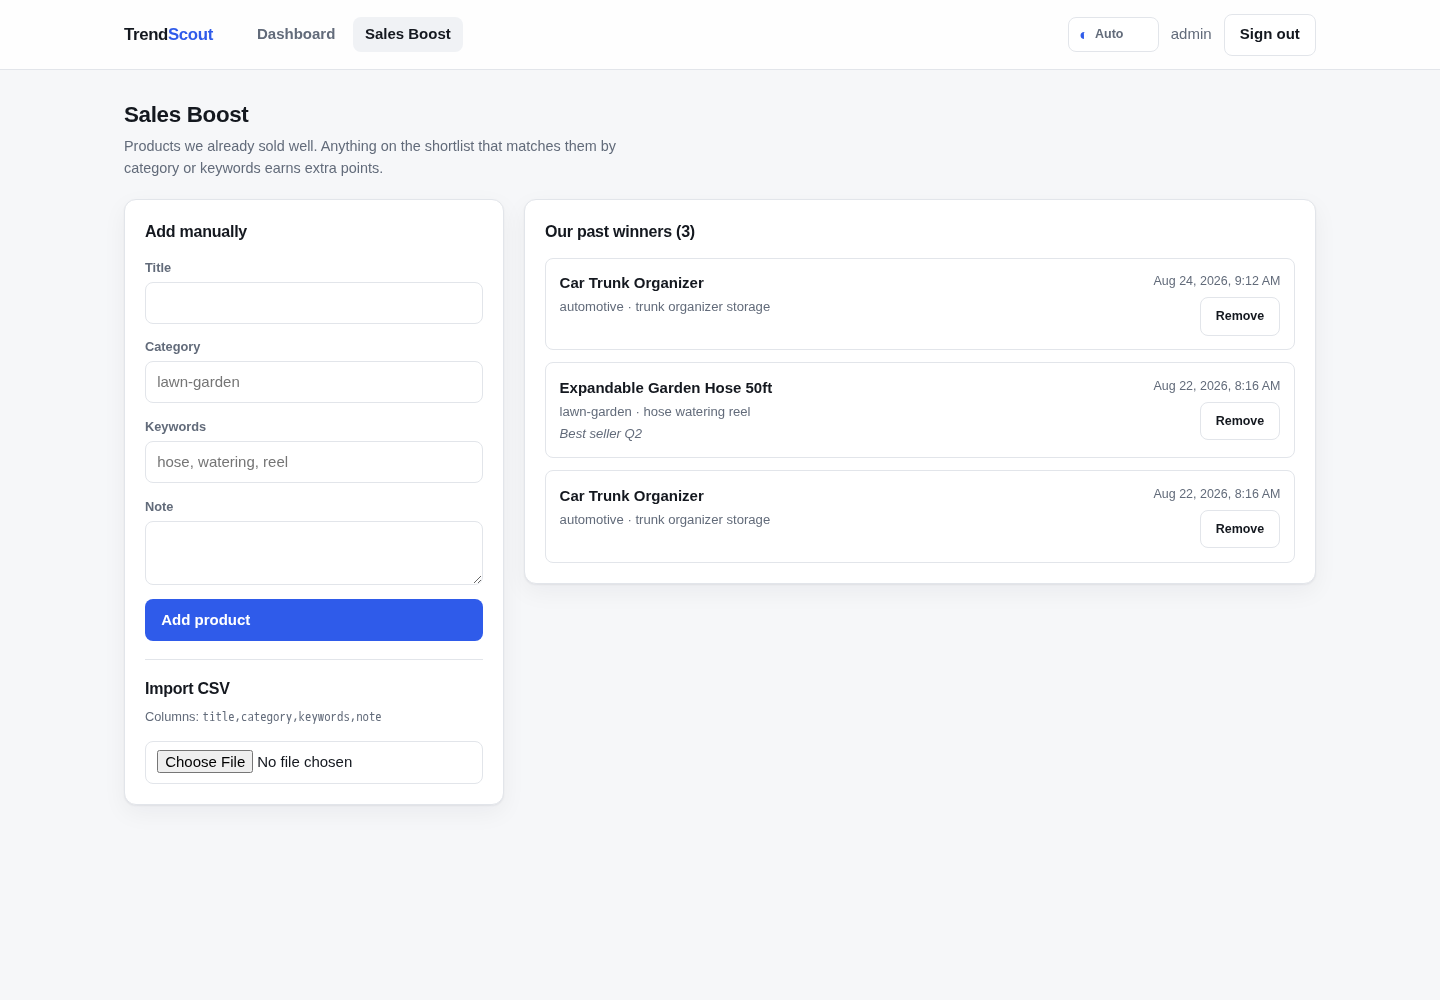
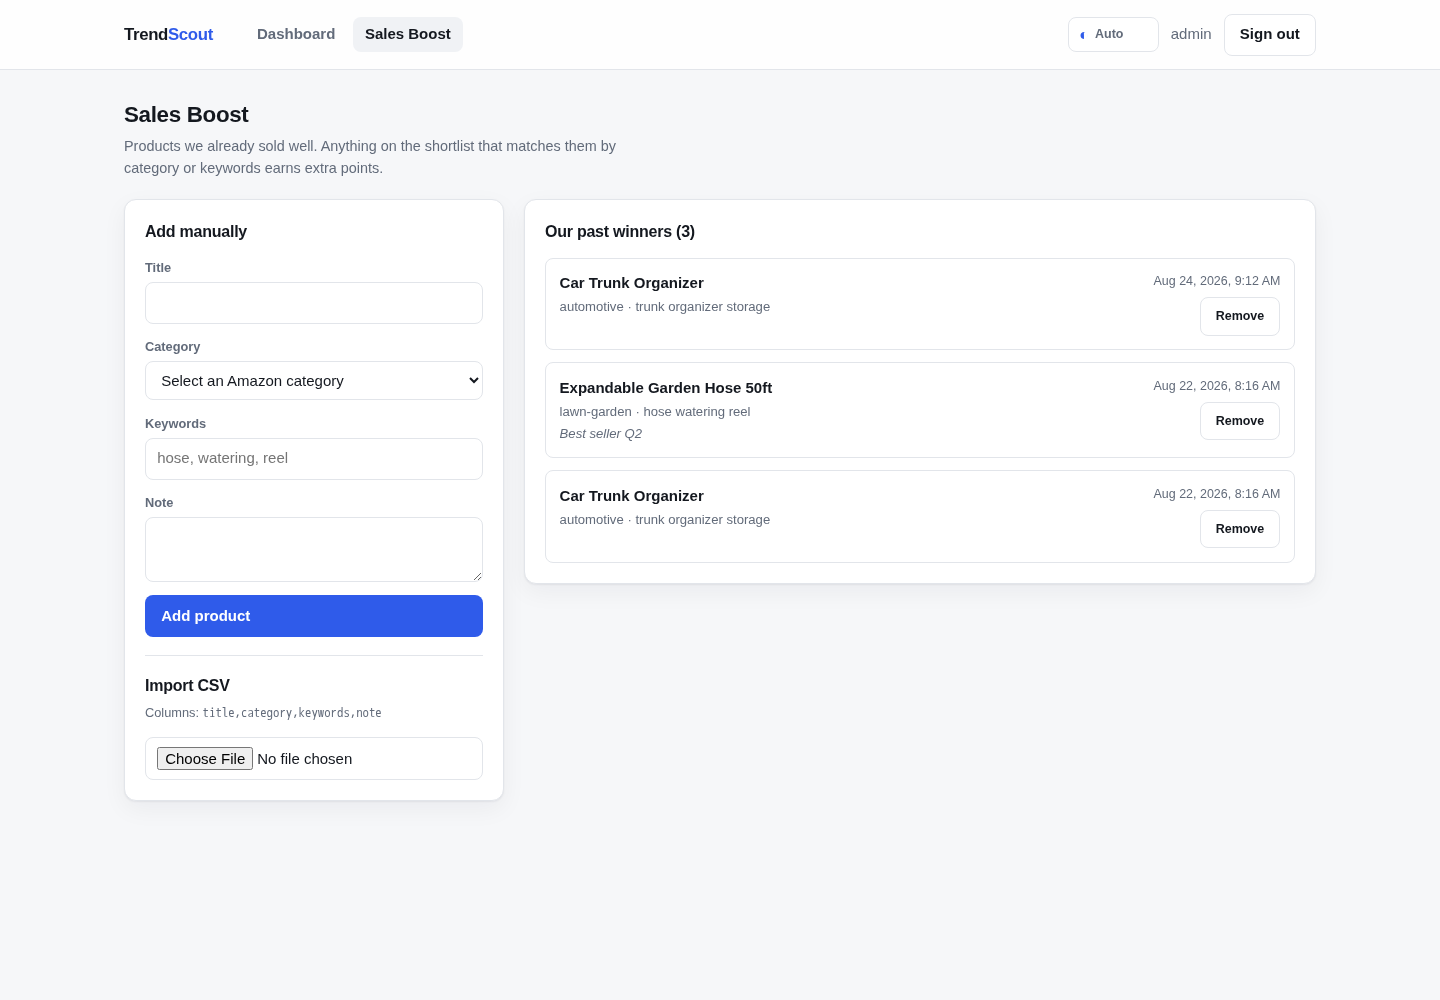
Constrain Sales Boost category selection
Populate manual entries from discovered Amazon categories so stored values match scraped product category names.

Changed region(s): [[0.0938, 0.589, 0.3438, 0.806], [0.0938, 0.372, 0.25, 0.496], [0.0938, 0.496, 0.125, 0.527]]

diff --git a/frontend/src/features/salesboost/SalesBoostView.vue b/frontend/src/features/salesboost/SalesBoostView.vue
@@ -7,14 +7,21 @@ import { ApiError } from "@/shared/http";
 import {
   createPastProduct,
   deletePastProduct,
+  fetchAmazonCategories,
   fetchPastProducts,
   importPastProducts,
 } from "./api";
-import type { CsvImportReport, PastProduct, PastProductDraft } from "./types";
+import type {
+  AmazonCategoryOption,
+  CsvImportReport,
+  PastProduct,
+  PastProductDraft,
+} from "./types";
 
 const CSV_TEMPLATE = "title,category,keywords,note";
 
 const items = ref<PastProduct[]>([]);
+const categories = ref<AmazonCategoryOption[]>([]);
 const loading = ref(true);
 const error = ref("");
 const report = ref<CsvImportReport | null>(null);
@@ -30,7 +37,10 @@ function report_error(caught: unknown, fallback: string): void {
 async function load(): Promise<void> {
   loading.value = true;
   try {
-    items.value = await fetchPastProducts();
+    [items.value, categories.value] = await Promise.all([
+      fetchPastProducts(),
+      fetchAmazonCategories(),
+    ]);
   } catch (caught) {
     report_error(caught, "Could not load past products");
   } finally {
@@ -105,8 +115,16 @@ void load();
 
       <label class="field">
         <span>Category</span>
-        <input v-model="draft.category" required maxlength="128" placeholder="lawn-garden" />
+        <select v-model="draft.category" required :disabled="loading || !categories.length">
+          <option disabled value="">Select an Amazon category</option>
+          <option v-for="category in categories" :key="category.slug" :value="category.name">
+            {{ category.name }}
+          </option>
+        </select>
       </label>
+      <p v-if="!loading && !categories.length" class="muted hint">
+        Discover Amazon categories on the dashboard first.
+      </p>
 
       <label class="field">
         <span>Keywords</span>

diff --git a/frontend/src/features/salesboost/api.ts b/frontend/src/features/salesboost/api.ts
@@ -1,6 +1,11 @@
 import { postJson, request } from "@/shared/http";
 
-import type { CsvImportReport, PastProduct, PastProductDraft } from "./types";
+import type {
+  AmazonCategoryOption,
+  CsvImportReport,
+  PastProduct,
+  PastProductDraft,
+} from "./types";
 
 export const fetchPastProducts = (): Promise<PastProduct[]> =>
   request<PastProduct[]>("/past-products");
@@ -10,6 +15,9 @@ export const createPastProduct = (draft: PastProductDraft): Promise<PastProduct>
 
 export const deletePastProduct = (id: number): Promise<void> =>
   request<void>(`/past-products/${id}`, { method: "DELETE" });
+
+export const fetchAmazonCategories = (): Promise<AmazonCategoryOption[]> =>
+  request<AmazonCategoryOption[]>("/amazon-categories");
 
 export function importPastProducts(file: File): Promise<CsvImportReport> {
   const body = new FormData();

diff --git a/frontend/src/features/salesboost/types.ts b/frontend/src/features/salesboost/types.ts
@@ -18,3 +18,9 @@ export interface CsvImportReport {
   imported: number;
   skipped: { line: number; error: string }[];
 }
+
+export interface AmazonCategoryOption {
+  slug: string;
+  name: string;
+  enabled: boolean;
+}
